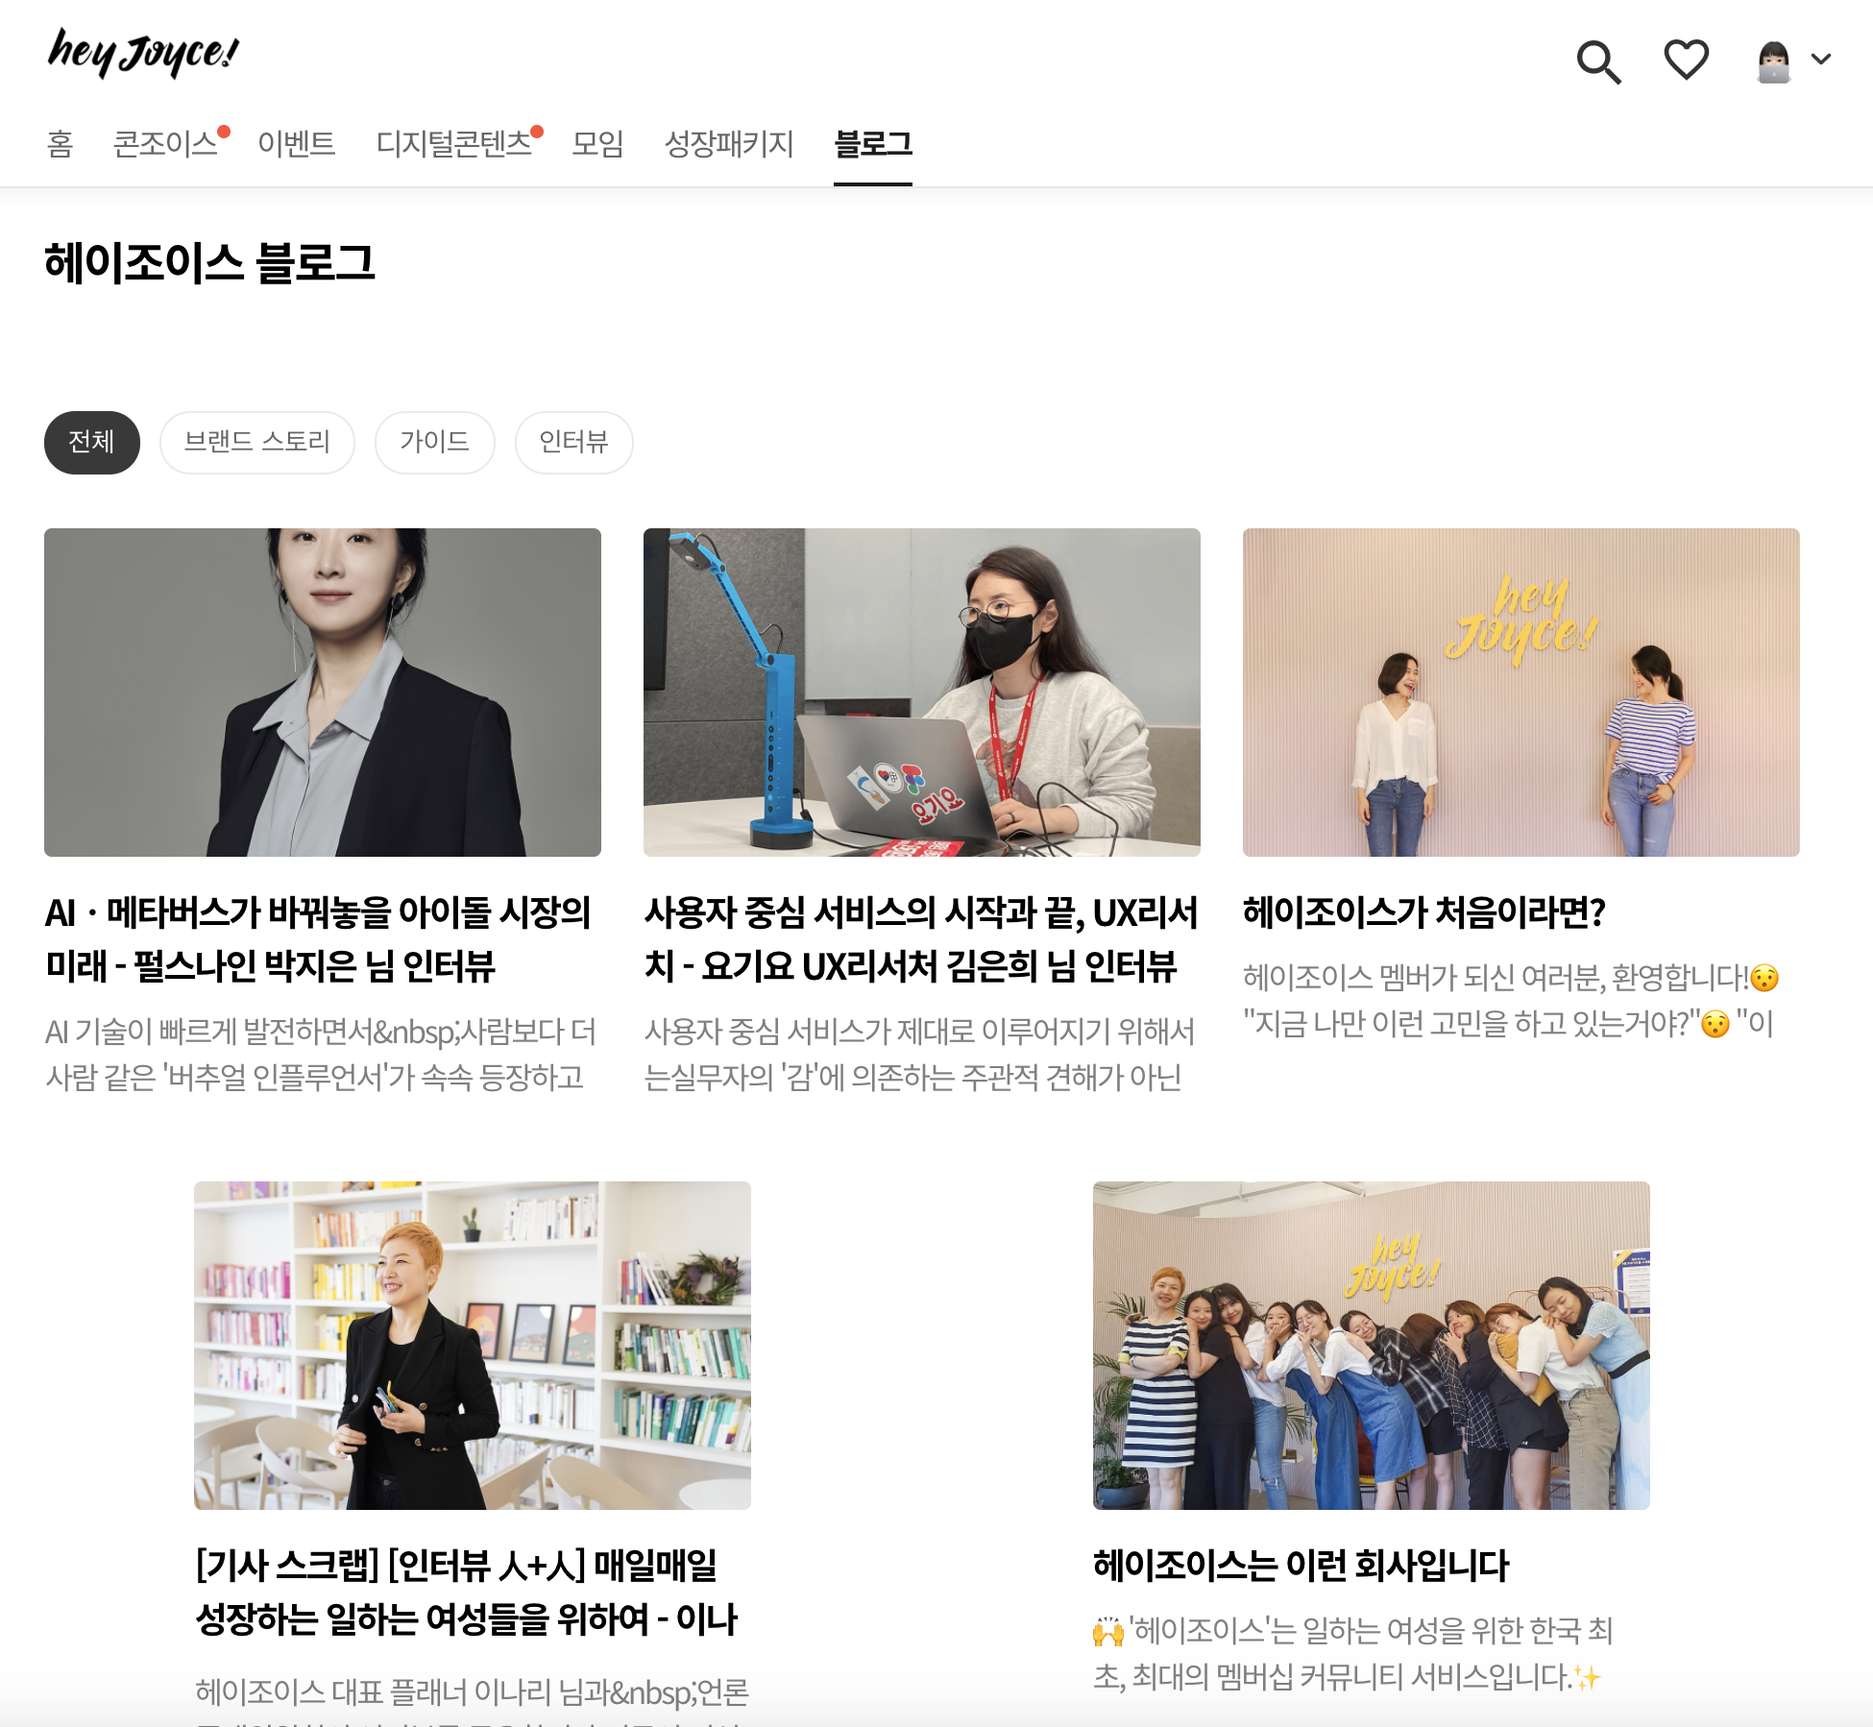
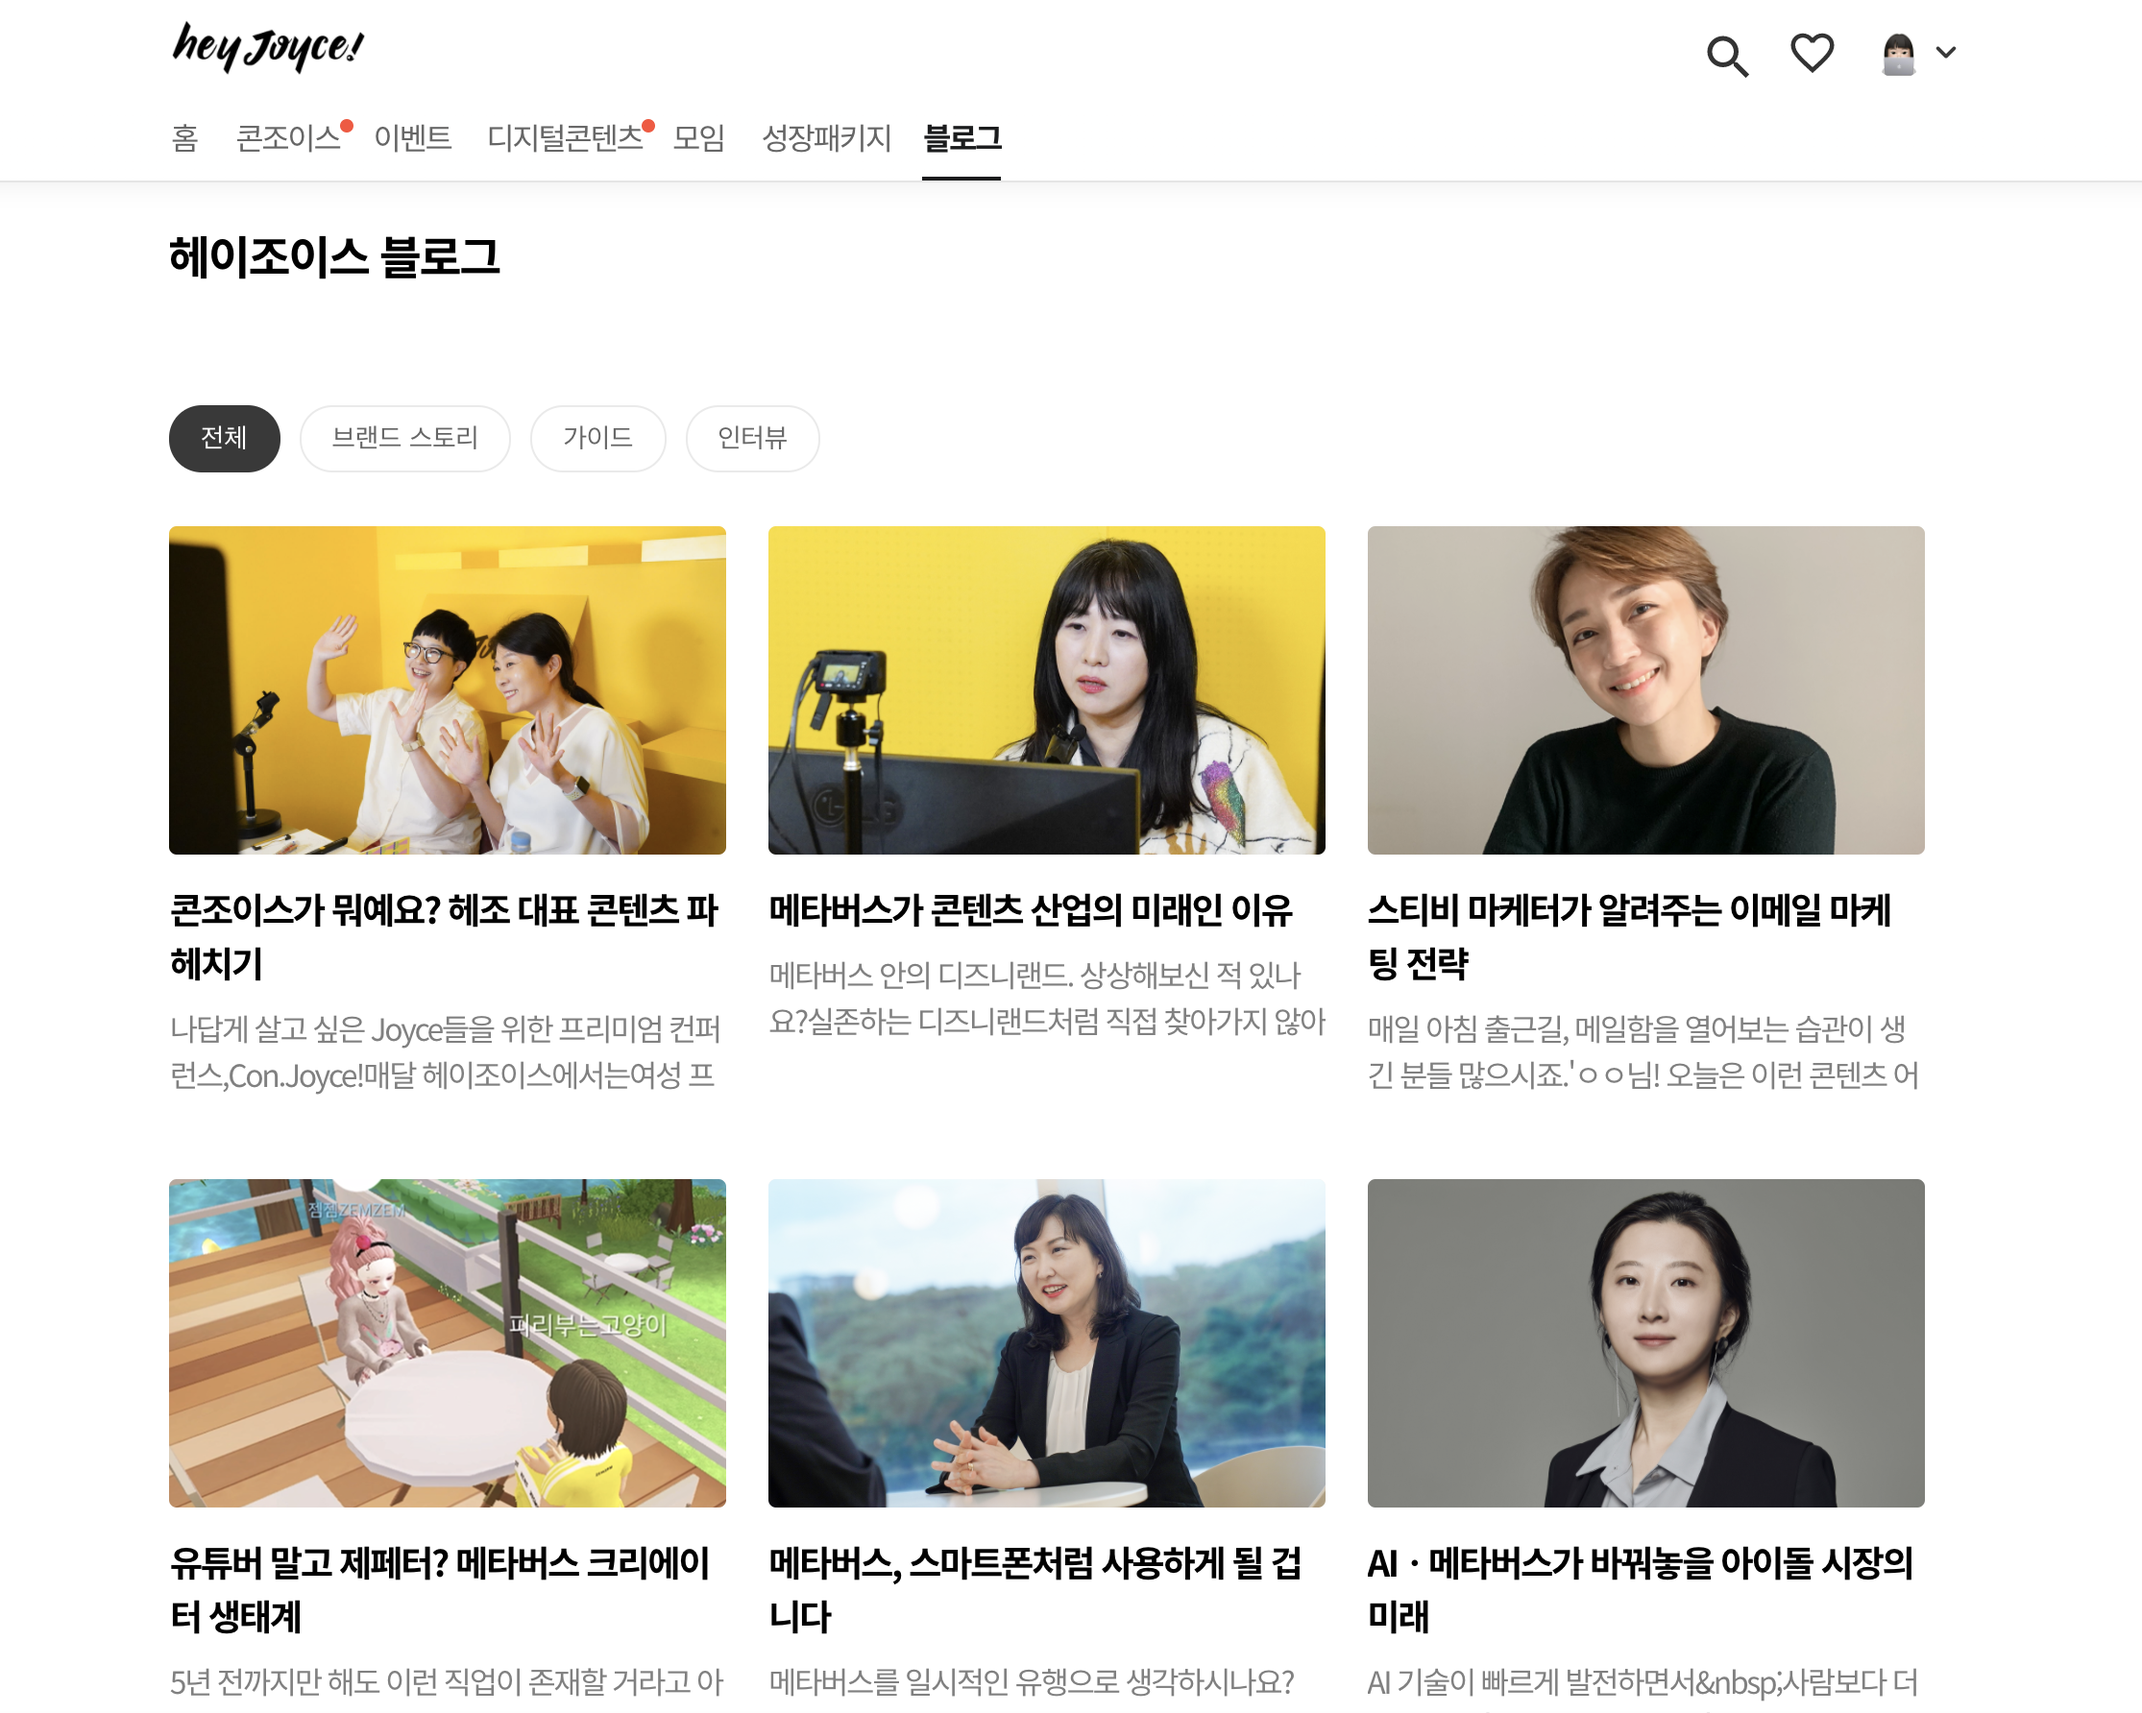
2021.09.26 내용추가 밑 레이아웃 개선

diff --git a/src/data/infos.js b/src/data/infos.js
@@ -31,38 +31,38 @@ const jobs = [
     url: 'https://heyjoyce.com',
     date: '2020.07.07 ~ 2021.01.07 (인턴) / 2021.01.08 ~ 현재 (정규)',
     summary:
-      '스타트업의 5인으로 이루어진 개발팀에서 풀스택 웹개발자로 근무하고 있습니다. 적은 인원으로 이루어진 개발팀이기에 크고 작은 프로젝트들을 주도적으로 진행하고있습니다. AWS를 이용하여 효율적으로 BE개발을 하고 Reat로 FE MVP를 구현하며 빠른 delivery를 하고있습니다.',
+      '스타트업의 5인으로 이루어진 개발팀에서 풀스택 웹개발자로 근무하고 있습니다. 적은 인원으로 이루어진 개발팀이기에 크고 작은 프로젝트들을 주도적으로 진행하고있습니다. AWS를 이용하여 효율적으로 BE개발을 하고 React로 FE를 구현하며 빠른 delivery를 하고있습니다.',
     projects: [
       {
         title: '배너 자동화',
         content:
-          '웹사이트 메인 페이지의 상단/하단 배너를 관리하는 adminAPI/clientAPI를 구현함. adminAPI: 관리자가 조건(기간, 대상 유저, 우선순위)을 설정하여 배너를 생성할 수 있음. clinetAPI: 웹사이트에서 조건에 맞는 배너를 가져와 화면에 표시함',
+          '웹사이트 메인 페이지의 상단/하단 배너를 관리하는 adminAPI/clientAPI를 구현했습니다.\n[adminAPI] 관리자가 노출 조건(기간, 대상, 우선순위)을 설정하여 배너를 생성할 수 있음\n[clinetAPI] 웹사이트에서 조건에 맞는 배너를 가져와 화면에 표시함',
         boundary: ['BE'],
         tech: ['Django', 'Python', 'React', 'JavaScript', 'Node.js', 'CSS'],
-        url: '',
+        url: 'https://heyjoyce.com',
       },
       {
         title: '쿠폰 패키지 (신규 서비스)',
         content:
-          '쿠폰 묶음 상품을 구매할 수 있는 화면을 구현함, 쿠폰 구매 후 생성되는 데이터를 구독하여 쿠폰을 발급하는 시스템을 구현함 (AWS: Lambda, EventBridge 등). toast API를 이용하여 유저에게 알림을 보냄',
+          '쿠폰 묶음 상품을 구매할 수 있는 화면과, 쿠폰 구매 후 생성되는 데이터를 구독하여 쿠폰을 자동 발급하는 시스템을 구현했습니다.\n1. order_event가 생기면 AWS-EventBridge에서 구독중인 규칙에 의해 couponCreat(AWS-Lambda 함수)가 호출됨\n2. 호출 된 함수에서 쿠폰 발급 후 coupon_created_event를 생성함\n3. toast API를 이용하여 유저에게 알림을 보냄',
         boundary: ['FE', 'BE'],
-        tech: ['AWS-Lambda', 'AWS-EventBridge', 'AWS-DynamoDB', 'SAAS', 'React', 'React', 'JavaScript', 'Node.js', 'CSS'],
+        tech: ['AWS-Lambda', 'AWS-EventBridge', 'AWS-DynamoDB', 'SAAS', 'React', 'JavaScript', 'Node.js', 'CSS'],
         url: 'https://heyjoyce.com/package',
         preview: [PrePackage1, PrePackage2],
       },
       {
         title: '콘텐츠 검색 기능 (신규 서비스)',
         content:
-          '커리어 상담 페이지에 카테고리로 필터링하는 기능과 키워드로 콘텐츠를 검색하는 기능을 구현함. dynamoDB의 data를 AWS Elasticsearch를 이용하여 mapping&indexing하여 검색기능을 구현함.',
+          '커리어 상담 페이지에 카테고리로 필터링하는 기능과 키워드로 콘텐츠를 검색하는 기능을 구현했습니다.\n1. AWS-DynamoDB의 data를 AWS-Elasticsearch에 PUT하고 mapping&indexing\n2. GraphQL로 search 스키마를 정의하고 resolver에 ES 쿼리를 작성함\n3. client에서 검색 GraphQL 쿼리를 호출하여 원하는 결과 리스트를 받음',
         boundary: ['FE', 'BE'],
         tech: ['AWS-Elasticsearch', 'AWS-DynamoDB', 'GraphQL', 'React', 'JavaScript', 'Node.js', 'CSS'],
         url: 'https://heyjoyce.com/feed/list',
         preview: [PreCareer1, PreCareer2],
       },
       {
-        title: '디지털 콘텐츠 자동 등록 및 안내',
+        title: '디지털 콘텐츠 자동 등록',
         content:
-          'teachable(SaaS)를 통해 제공되는 디지털 콘텐츠 자동 등록 프로세스를 구현함. 콘텐츠 구매 후 생성되는 데이터를 구동하여 teachable API를 이용하여 유저 계정 생성 및 코스 등록 과정을 자동화 함. 구매 후 웹사이트 유저 마이페이지와 알림톡으로 결과를 안내함',
+          'teachable(SaaS)를 통해 제공되는 디지털 콘텐츠 자동 등록 프로세스를 구현했습니다.\n1. 콘텐츠 구매 후 생성되는 order_event를 AWS-EventBridge에서 구독하여 registerTeachable(AWS-Lambda 함수)를 호출함\n2. teachable API를 이용하여 유저 계정 생성 및 코스 등록함',
         boundary: ['FE', 'BE'],
         tech: ['AWS-Lambda', 'AWS-DynamoDB', 'AWS-EventBridge', 'SaaS', 'React', 'JavaScript', 'Node.js', 'CSS'],
         url: '',
@@ -70,7 +70,7 @@ const jobs = [
       {
         title: '통합 검색 시스템 (신규 서비스)',
         content:
-          '서비스하는 모든 콘텐츠에대한 통합 검색 기능 MVP를 AWS-Elasticsearch를 이용하여 구현함. 다양한 타입의 콘텐츠를 추가할 수 있게 확장성 있는 schema를 정의함. 30분마다 update된 postgreSQL의 data를 (AWS) 이벤트브릿지로 구독하여 AWS Elasticsearch에 싱크함. ES query로 데이터를 만들고, graphQL를 api로 사용하여 검색 시스템을 구현함',
+          '서비스하는 모든 콘텐츠에대한 통합 검색 기능 MVP를 AWS-Elasticsearch를 이용하여 구현했습니다.\n1. 다양한 타입의 콘텐츠를 추가할 수 있게 union type을 이용하여 확장성 있는 GraphQL schema를 정의함\n2. 30분마다 update된 postgreSQL의 data를 AWS-EventBridge로 구독하여 AWS-Elasticsearch에 싱크함\n3. GraphQL로 search 스키마를 정의하고 resolver에 ES 쿼리를 작성하여 검색 시스템을 구현함',
         boundary: ['BE'],
         tech: ['AWS-Elasticsearch', 'AWS-DynamoDB', 'GraphQL', 'AWS-Lambda', 'AWS-EventBridge'],
         url: 'https://heyjoyce.com',
@@ -78,7 +78,7 @@ const jobs = [
       {
         title: 'table 확장 설계 (feat. microservice)',
         content:
-          'microservice 중 하나인 feed services를 확장 설계하여 여러가지 콘텐츠를 제공할 수 있도록 함. 여러 타입의 콘텐츠에서 사용하는 필드와 개별 필들를 정하고 dynamoDB를 재 설계함. 각 요청에 맞게 graphQL를 수정하고, 각 resolver에 AWS-Elasticsearch의 쿼리 기능을 연결하여 적절한 콘텐츠를 제공할 수 있도록 구현함',
+          'microservice 중 하나인 feed service를 확장 설계하여 여러 타입의 콘텐츠(ex. 블로그, 리뷰)를 제공할 수 있도록 설계했습니다.\n1. 모든 타입에서 사용하는 공통 필드와 개별 필들를 정의하고 CRUD를 재 정의함\n2. 각 요청에 맞게 GraphQL input을 수정하고, resolver에 ES 쿼리를 작성하여 조건에 맞는 콘텐츠를 제공할 수 있도록 구현함',
         boundary: ['BE'],
         tech: ['AWS-Elasticsearch', 'AWS-DynamoDB', 'GraphQL'],
         url: '',
@@ -86,11 +86,19 @@ const jobs = [
       {
         title: '블로그 (신규 서비스)',
         content:
-          '브랜드 스토리, 가이드, 인터뷰를 담고 있는 블로그 페이지를 구현함. graphQL 쿼리를 이용하여 리스트와 각 데이터를 불러오고 세부 타입별로 나누어 탭을 구성함',
+          "브랜드 스토리, 가이드, 인터뷰를 담고 있는 블로그 페이지를 구현했습니다.\n1. AWS-Elasticsearch 매핑시 블로그 타입같이 고정값을 가지는 필드는 'keyword' 타입으로 정의함.\n2.'keyword'로 정의된 필드는 'filter-term'으로 쿼리하여 검색 효율을 높임\n3. GraphQL 스키마를 블로그 타입별로 가져올 수 있게 수정함",
         boundary: ['FE'],
-        tech: ['GraphQL', 'React', 'JavaScript', 'Node.js', 'CSS'],
+        tech: ['AWS-Elasticsearch', 'GraphQL', 'React', 'JavaScript', 'Node.js', 'CSS'],
         url: 'https://heyjoyce.com/blog/list',
         preview: [PreBlog1, PreBlog2],
+      },
+      {
+        title: '아이디/비밀번호 찾기 개선 (VoC 이슈)',
+        content:
+          '등록된 계정을 찾고, 비밀번호를 재설정하는 과정을 단계별로 쪼개 API를 구현하여 유저 편의를 높이는 경험으로 개선했습니다.\n1. 기존 하나의 API로 작동하던 것을 confirm_user(해당 유저가 가입된 계정인지 확인하는 API)와 이후 작업들로 분리함\n2. 계정확인 후 이뤄지는 이후 작업에 보안 절차를 추가함',
+        boundary: ['FE', 'BE'],
+        tech: ['Django', 'React', 'JavaScript', 'Node.js', 'CSS', 'SaaS'],
+        url: '',
       },
     ],
   },

diff --git a/src/component/CareerCard.js b/src/component/CareerCard.js
@@ -19,9 +19,6 @@ const CustomCard = styled.div`
   flex-direction: column;
   height: auto;
   justify-content: space-between;
-  box-shadow: 1px 2px 4px -1px rgb(0 0 0 / 30%);
-  border-radius: 4px;
-  padding: 40px 20px 20px;
 `;
 
 const IconWrapper = styled.div`
@@ -52,6 +49,10 @@ const ContentWrapper = styled.div`
 
 const SummarySection = styled.div`
   display: flex;
+  border: solid 1px #274c5e;
+  padding: 20px;
+  border-radius: 4px;
+
   .info {
     display: flex;
     flex-direction: column;
@@ -72,22 +73,22 @@ const SummarySection = styled.div`
     .date {
       color: ${colorDict.lightText};
     }
+    .summary {
+      margin-top: 10px;
+    }
   }
 `;
 
 const ProjectSection = styled.div`
   display: flex;
   flex-direction: column;
-  .summary {
-    margin: 10px 0px;
-  }
+  padding: 20px;
 `;
 
 const ImgWrapper = styled.div`
   position: relative;
   overflow: hidden;
-  width: 75px;
-  height: 75px;
+  width: 200px;
 `;
 
 const Img = styled.img`
@@ -99,7 +100,7 @@ const BoxWrapper = styled.div`
   flex-display: column;
   border-left: solid 2px ${colorDict.darkText};
   padding-left: 10px;
-  margin: 10px 0px;
+  margin: 12px 0px;
 
   .title {
     display: flex;
@@ -113,6 +114,7 @@ const BoxWrapper = styled.div`
   }
   .content {
     margin: 10px 0px;
+    white-space: pre-wrap;
   }
   .chipContainer {
     width: 100%;
@@ -142,7 +144,6 @@ const ImgContainer = styled.div`
     padding: 5px;
     margin: 10px;
     overflow: hidden;
-    width: 100%;
     display: flex;
   }
 `;
@@ -206,12 +207,10 @@ const CareerCard = (props) => {
               </a>
             </span>
             <span className="date">{date}</span>
+            <div className="summary">{summary}</div>
           </div>
         </SummarySection>
-        <ProjectSection>
-          <div className="summary">{summary}</div>
-          {getProjectBox(projects)}
-        </ProjectSection>
+        <ProjectSection>{getProjectBox(projects)}</ProjectSection>
       </ContentWrapper>
     </CustomCard>
   );

diff --git a/src/component/ProjectCard.js b/src/component/ProjectCard.js
@@ -29,6 +29,19 @@ const CustomCard = styled.div`
   box-shadow: 1px 2px 4px -1px rgb(0 0 0 / 30%);
   border-radius: 4px;
 
+  .gitBox {
+    display: flex;
+    flex-direction: row;
+    .git {
+      width: 186px;
+      padding-right: 4px;
+      word-break: break-all;
+      font-size: smaller;
+      color: ${colorDict.lightText};
+      margin: 6px 0px;
+    }
+  }
+
   &:hover {
     cursor: pointer;
     box-shadow: 1px 2px 4px -1px rgb(0 0 0 / 60%);
@@ -37,9 +50,9 @@ const CustomCard = styled.div`
 
 const IconWrapper = styled.div`
   display: flex;
-  align-self: flex-end;
   border-radius: 8px;
   padding: 10px;
+  align-self: center;
 
   &:hover {
     cursor: pointer;
@@ -95,7 +108,10 @@ const ProjectCard = (props) => {
           <span className="desc">{techInfo}</span>
           <span className="desc">{role}</span>
         </ContentWrapper>
-        <IconWrapper onClick={() => handleClick(link)}>{techInfo === 'AdobeXD' ? <PageviewIcon /> : <GitHubIcon />}</IconWrapper>
+        <div className="gitBox">
+          <span className="git">{link}</span>
+          <IconWrapper onClick={() => handleClick(link)}>{techInfo === 'AdobeXD' ? <PageviewIcon /> : <GitHubIcon />}</IconWrapper>
+        </div>
       </CustomCard>
     </FlickerItem>
   );
